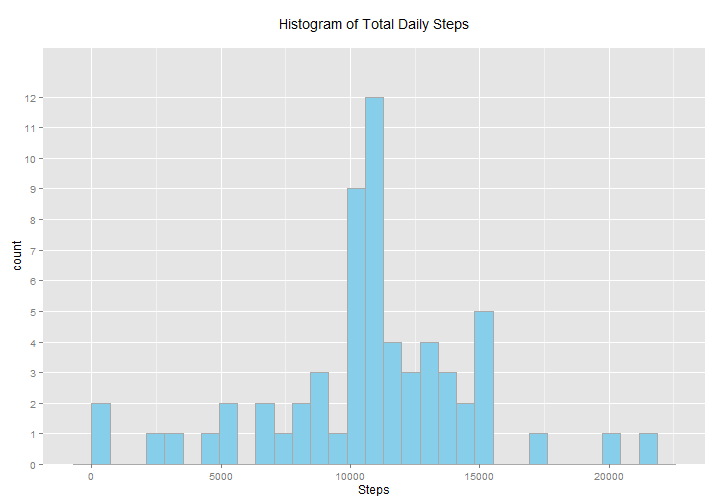
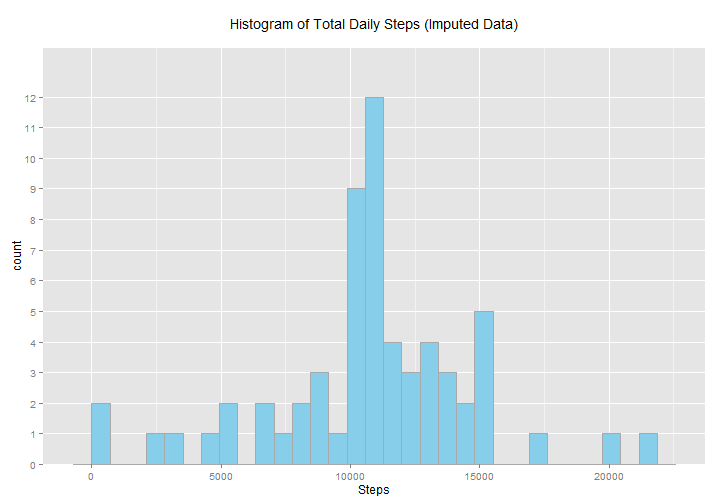
Weekend vs weekday complete

Changed region(s): [[0.3056, 0.0298, 0.7333, 0.0595]]

diff --git a/PA1_template.html b/PA1_template.html
@@ -307,13 +307,13 @@ dailySum2 &lt;- summarize(dailySum2, Steps = sum(steps))       # sum by date
 
 h2 &lt;- ggplot(dailySum2, aes(x = Steps)) + 
         geom_histogram(fill = &quot;skyblue&quot;, color = &quot;darkgray&quot;) +
-        labs(title = &quot;Histogram of Total Daily Steps\n&quot;) +
+        labs(title = &quot;Histogram of Total Daily Steps (Imputed Data)\n&quot;) +
         scale_y_discrete(breaks = seq(0, 12, by = 1))
 
 print(h2)
 </code></pre>
 
[2 lines of base64/hex data omitted]
 
 <pre><code class="r">sMean2 &lt;- mean(dailySum2$Steps)
 sMedian2 &lt;- median(dailySum2$Steps)
@@ -328,6 +328,35 @@ sMedian2 &lt;- median(dailySum2$Steps)
 <p><br></p>
 
 <h2>Are there differences in activity patterns between weekdays and weekends?</h2>
+
+<p>First, I&#39;m going to add a new column that designates whether it is weekday or weekend and then average the imputed data in each 5-minute interval across the common day type. Then I&#39;m going to plot two time series charts that compare weekday steps to weekend steps.</p>
+
+<pre><code class="r">data2 &lt;- tbl_df(data2)
+
+data2 &lt;- mutate(data2, day = weekdays(as.Date(date)))
+data2$day &lt;- gsub(&quot;Saturday&quot;, &quot;weekend&quot;, data2$day)
+data2$day &lt;- gsub(&quot;Sunday&quot;, &quot;weekend&quot;, data2$day)
+data2$day &lt;- gsub(&quot;Monday&quot;, &quot;weekday&quot;, data2$day)
+data2$day &lt;- gsub(&quot;Tuesday&quot;, &quot;weekday&quot;, data2$day)
+data2$day &lt;- gsub(&quot;Wednesday&quot;, &quot;weekday&quot;, data2$day)
+data2$day &lt;- gsub(&quot;Thursday&quot;, &quot;weekday&quot;, data2$day)
+data2$day &lt;- gsub(&quot;Friday&quot;, &quot;weekday&quot;, data2$day)
+
+avgIntv2 &lt;- group_by(data2, interval, day)              # group data by day by interval
+avgIntv2 &lt;- summarize(avgIntv2, Steps = mean(steps))    # average by interval
+
+tsPlot2 &lt;- ggplot(avgIntv2, aes(x = interval, y = Steps)) + 
+        geom_line(color = &quot;blue&quot;) +
+        facet_wrap(~ day, ncol=1) +
+        labs(title = &quot;Plot of Average Steps Taken per Interval (Weekday vs. Weekend)\n&quot;) +
+        scale_x_discrete(breaks = seq(0, 2400, by = 100))
+
+print(tsPlot2)
+</code></pre>
+
[1 lines of base64/hex data omitted]
+
+<p>On weekdays there appears to be more steps taken in the morning and evening, whereas weekends show more steps during the middle of the day. </p>
 
 </body>
 

diff --git a/PA1_template.md b/PA1_template.md
@@ -126,7 +126,7 @@ dailySum2 <- summarize(dailySum2, Steps = sum(steps))       # sum by date
 
 h2 <- ggplot(dailySum2, aes(x = Steps)) + 
         geom_histogram(fill = "skyblue", color = "darkgray") +
-        labs(title = "Histogram of Total Daily Steps\n") +
+        labs(title = "Histogram of Total Daily Steps (Imputed Data)\n") +
         scale_y_discrete(breaks = seq(0, 12, by = 1))
 
 print(h2)
@@ -147,3 +147,36 @@ It appears my strategy for imputing the data only increased the number of days t
 <br>
 
 ## Are there differences in activity patterns between weekdays and weekends?
+
+First, I'm going to add a new column that designates whether it is weekday or weekend and then average the imputed data in each 5-minute interval across the common day type. Then I'm going to plot two time series charts that compare weekday steps to weekend steps.
+
+
+```r
+data2 <- tbl_df(data2)
+
+data2 <- mutate(data2, day = weekdays(as.Date(date)))
+data2$day <- gsub("Saturday", "weekend", data2$day)
+data2$day <- gsub("Sunday", "weekend", data2$day)
+data2$day <- gsub("Monday", "weekday", data2$day)
+data2$day <- gsub("Tuesday", "weekday", data2$day)
+data2$day <- gsub("Wednesday", "weekday", data2$day)
+data2$day <- gsub("Thursday", "weekday", data2$day)
+data2$day <- gsub("Friday", "weekday", data2$day)
+
+avgIntv2 <- group_by(data2, interval, day)              # group data by day by interval
+avgIntv2 <- summarize(avgIntv2, Steps = mean(steps))    # average by interval
+
+tsPlot2 <- ggplot(avgIntv2, aes(x = interval, y = Steps)) + 
+        geom_line(color = "blue") +
+        facet_wrap(~ day, ncol=1) +
+        labs(title = "Plot of Average Steps Taken per Interval (Weekday vs. Weekend)\n") +
+        scale_x_discrete(breaks = seq(0, 2400, by = 100))
+
+print(tsPlot2)
+```
+
+![plot of chunk panel plot](figure/panel plot-1.png) 
+
+On weekdays there appears to be more steps taken in the morning and evening, whereas weekends show more steps during the middle of the day. 
+
+
